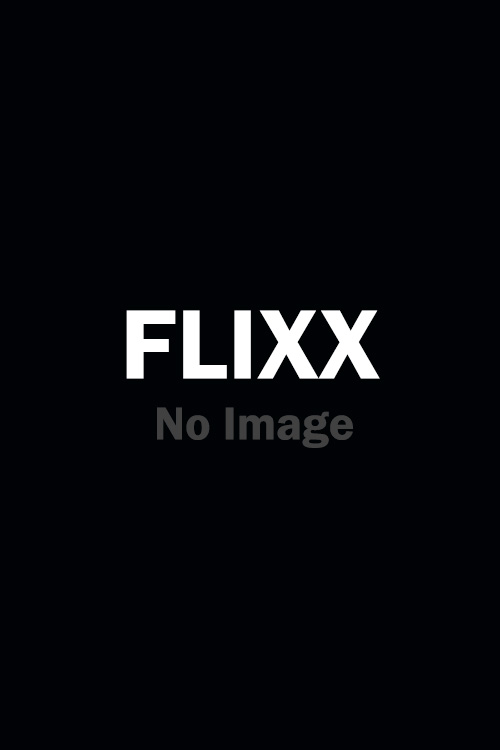
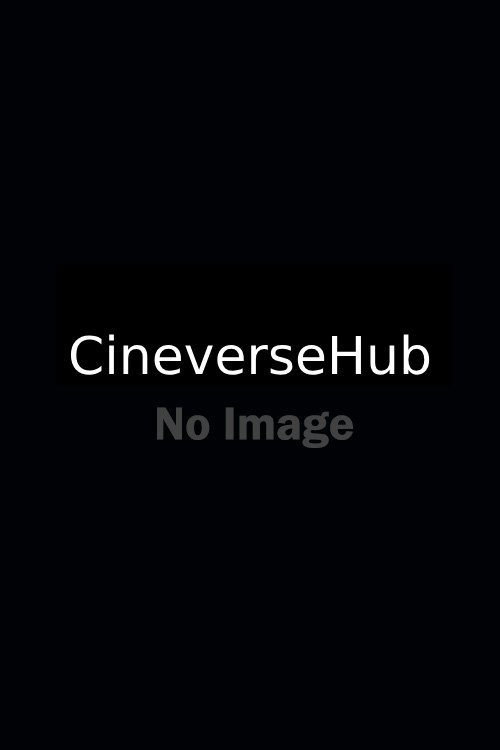
Image updated and CineverseHub text added

Changed region(s): [[0.12, 0.3987, 0.87, 0.5213]]

diff --git a/search.html b/search.html
@@ -14,12 +14,12 @@
     <link rel="stylesheet" href="css/style.css" />
     <link rel="stylesheet" href="css/spinner.css" />
     <script src="js/script.js" defer></script>
-    <title>Flixx | Search Movies & Shows</title>
+    <title>CineverseHub | Movies and TV Shows Information</title>
   </head>
   <body>
     <header class="main-header">
       <div class="container">
-        <div class="logo"><a href="/">FLIXX</a></div>
+        <div class="logo"><a href="/">CineverseHub</a></div>
         <nav>
           <ul>
             <li>
@@ -164,7 +164,7 @@
     <!-- Footer -->
     <footer class="main-footer">
       <div class="container">
-        <div class="logo"><span>FLIXX</span></div>
+        <div class="logo"><span>CineverseHub</span></div>
         <div class="social-links">
           <a href="https://www.facebook.com" target="_blank"
             ><i class="fab fa-facebook-f"></i

diff --git a/movie-details.html b/movie-details.html
@@ -14,12 +14,12 @@
     <link rel="stylesheet" href="css/style.css" />
     <link rel="stylesheet" href="css/spinner.css" />
     <script src="js/script.js" defer></script>
-    <title>Flixx | Movie Details</title>
+    <title>CineverseHub | Movies and TV Shows Information</title>
   </head>
   <body>
     <header class="main-header">
       <div class="container">
-        <div class="logo"><a href="/">FLIXX</a></div>
+        <div class="logo"><a href="/">CineverseHub</a></div>
         <nav>
           <ul>
             <li>
@@ -90,7 +90,7 @@
     <!-- Footer -->
     <footer class="main-footer">
       <div class="container">
-        <div class="logo"><span>FLIXX</span></div>
+        <div class="logo"><span>CineverseHub</span></div>
         <div class="social-links">
           <a href="https://www.facebook.com" target="_blank"
             ><i class="fab fa-facebook-f"></i

diff --git a/tv-details.html b/tv-details.html
@@ -14,12 +14,12 @@
     <link rel="stylesheet" href="css/style.css" />
     <link rel="stylesheet" href="css/spinner.css" />
     <script src="js/script.js" defer></script>
-    <title>Flixx | Show Details</title>
+    <title>CineverseHub | Movies and TV Shows Information</title>
   </head>
   <body>
     <header class="main-header">
       <div class="container">
-        <div class="logo"><a href="/">FLIXX</a></div>
+        <div class="logo"><a href="/">CineverseHub</a></div>
         <nav>
           <ul>
             <li>
@@ -91,7 +91,7 @@
     <!-- Footer -->
     <footer class="main-footer">
       <div class="container">
-        <div class="logo"><span>FLIXX</span></div>
+        <div class="logo"><span>CineverseHub</span></div>
         <div class="social-links">
           <a href="https://www.facebook.com" target="_blank"
             ><i class="fab fa-facebook-f"></i

diff --git a/shows.html b/shows.html
@@ -14,12 +14,12 @@
     <link rel="stylesheet" href="css/style.css" />
     <link rel="stylesheet" href="css/spinner.css" />
     <script src="js/script.js" defer></script>
-    <title>Flixx</title>
+    <title>CineverseHub | Movies and TV Shows Information</title>
   </head>
   <body>
     <header class="main-header">
       <div class="container">
-        <div class="logo"><a href="/">FLIXX</a></div>
+        <div class="logo"><a href="/">CineverseHub</a></div>
         <nav>
           <ul>
             <li>
@@ -42,7 +42,7 @@
     <!-- Footer -->
     <footer class="main-footer">
       <div class="container">
-        <div class="logo"><span>FLIXX</span></div>
+        <div class="logo"><span>CineverseHub</span></div>
         <div class="social-links">
           <a href="https://www.facebook.com" target="_blank"
             ><i class="fab fa-facebook-f"></i

diff --git a/index.html b/index.html
@@ -5,6 +5,7 @@
   <meta charset="UTF-8" />
   <meta http-equiv="X-UA-Compatible" content="IE=edge" />
   <meta name="viewport" content="width=device-width, initial-scale=1.0" />
+  <link rel="shortcut icon" href="images/favicon.ico" type="image/x-icon">
   <link rel="preconnect" href="https://fonts.googleapis.com" />
   <link rel="preconnect" href="https://fonts.gstatic.com" crossorigin />
   <link href="https://fonts.googleapis.com/css2?family=Poppins:wght@300;400;700&display=swap" rel="stylesheet" />
@@ -14,7 +15,7 @@
   <link rel="stylesheet" href="css/spinner.css" />
   <script src="lib/swiper.js"></script>
   <script src="js/script.js" defer></script>
-  <title>Flixx</title>
+  <title>CineverseHub | Movies and TV Shows Information</title>
 </head>
 
 <body>
